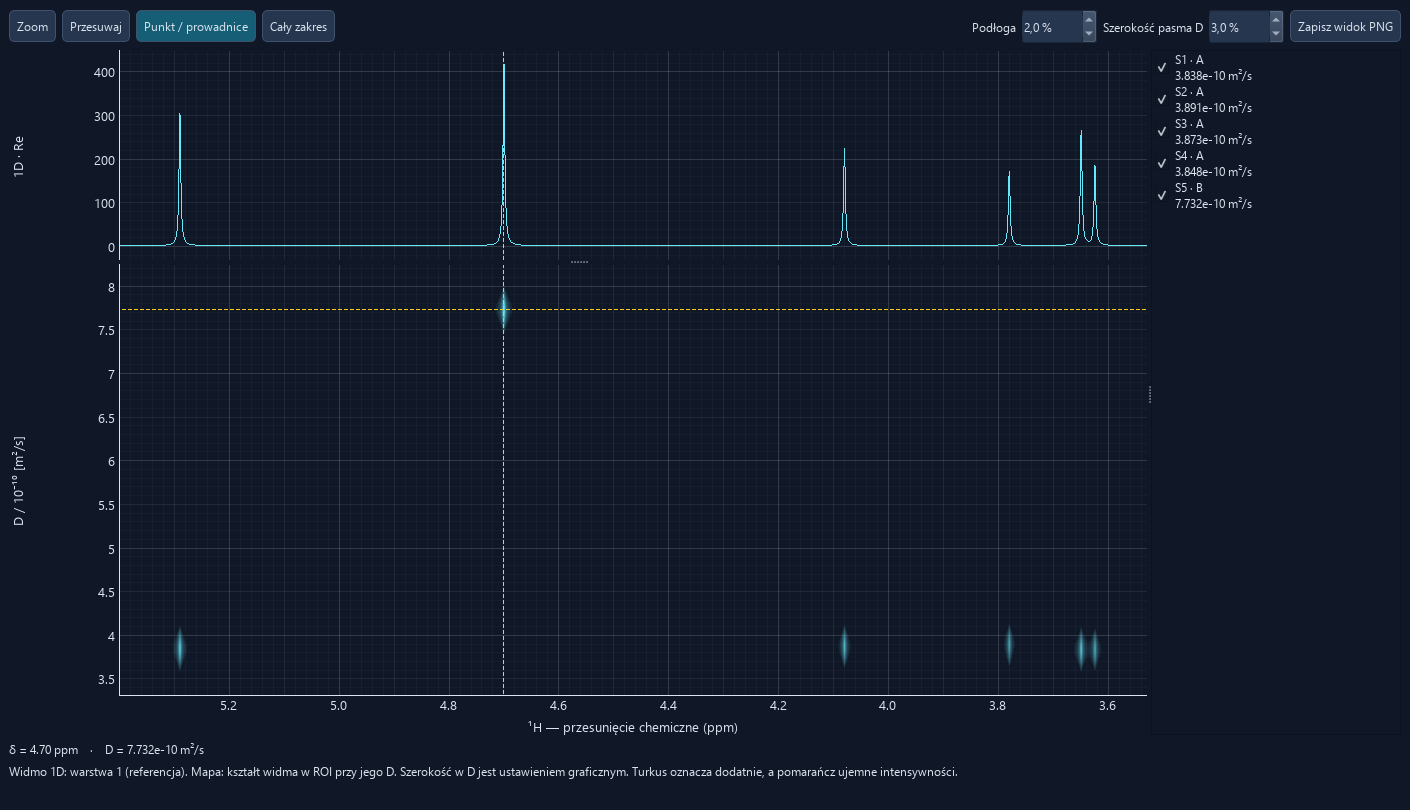
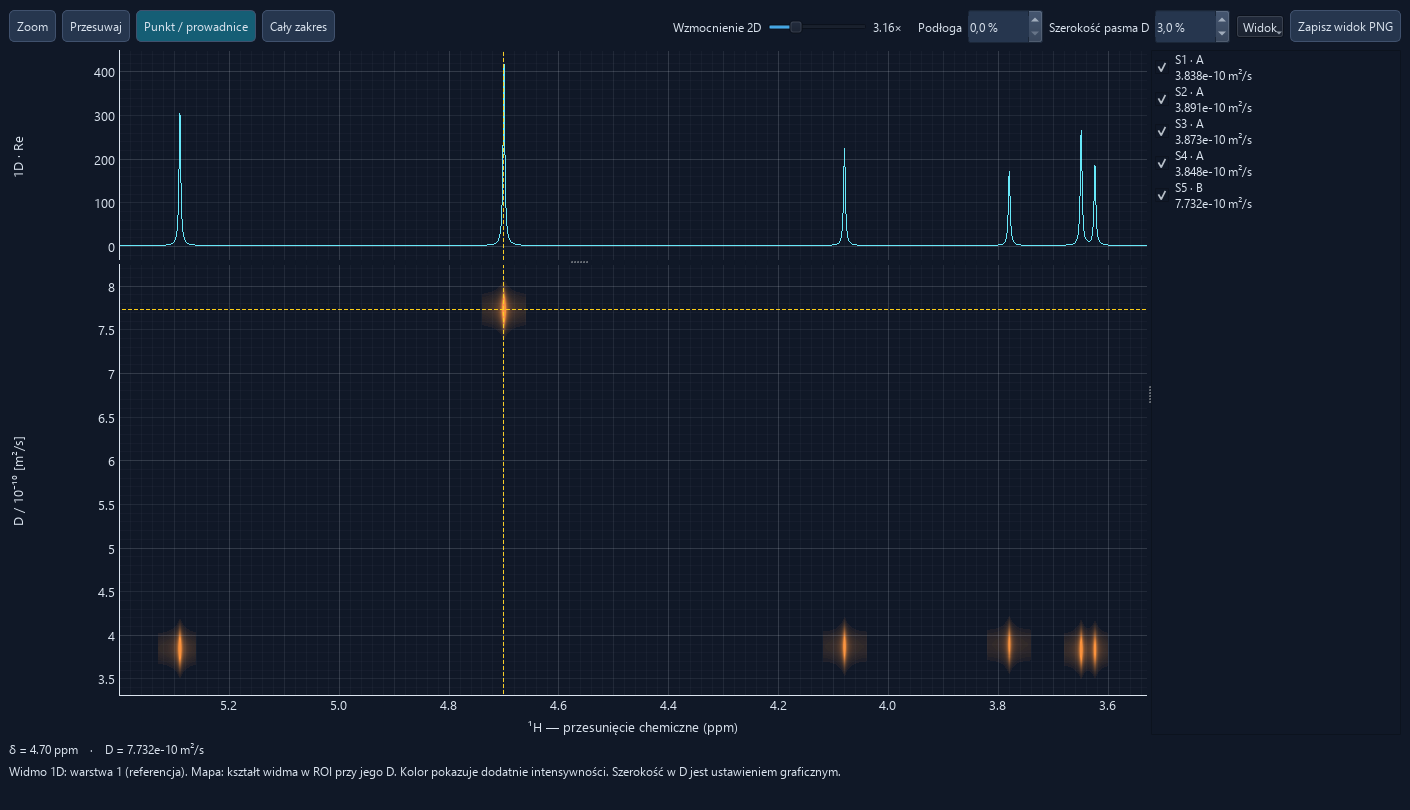
Dodaj wzmocnienie i ustawienia wyglądu mapy DOSY 2D

diff --git a/dosy_map.py b/dosy_map.py
@@ -3,7 +3,7 @@ from dataclasses import dataclass
 
 import numpy as np
 import pyqtgraph as pg
-from PySide6 import QtCore, QtWidgets
+from PySide6 import QtCore, QtGui, QtWidgets
 
 from d_statistics import finite
 from spectrum_view import SpectrumBox
@@ -82,8 +82,11 @@ class DosyMapWindow(QtWidgets.QMainWindow):
         self.excluded = set()
         self.images = []
         self.stale = True
-        self.levels = 0.
+        self.peak_intensity = 0.
         self.full_range = None
+        self.settings = parent.settings
+        self.map_color = self.saved_color('dosy_map/color', '#fb923c')
+        self.trace_color = self.saved_color('dosy_map/trace_color', '#67e8f9')
 
         root = QtWidgets.QWidget()
         self.setCentralWidget(root)
@@ -107,12 +110,33 @@ class DosyMapWindow(QtWidgets.QMainWindow):
         reset.clicked.connect(self.reset_view)
         toolbar.addWidget(reset)
         toolbar.addStretch()
-        self.floor = self.spin_box(toolbar, 'Podłoga', 0, 99, 2,
-                                  'Próg w % maksymalnej bezwzględnej intensywności mapy. Rolka nad mapą zmienia próg.')
-        self.floor.valueChanged.connect(self.update_floor)
+        toolbar.addWidget(QtWidgets.QLabel('Wzmocnienie 2D'))
+        self.gain = QtWidgets.QSlider(QtCore.Qt.Orientation.Horizontal)
+        self.gain.setRange(0, 40)
+        self.gain.setFixedWidth(100)
+        self.gain.setToolTip('Wzmocnij jasność mapy od 1× do 100×. Próg podłogi pozostaje niezależny.')
+        self.gain.valueChanged.connect(self.update_intensity)
+        toolbar.addWidget(self.gain)
+        self.gain_label = QtWidgets.QLabel('1×')
+        self.gain_label.setMinimumWidth(39)
+        toolbar.addWidget(self.gain_label)
+        self.floor = self.spin_box(toolbar, 'Podłoga', 0, 99, 0,
+                                  'Próg w % najsilniejszej dodatniej intensywności przed wzmocnieniem. Rolka zmienia próg.')
+        self.floor.valueChanged.connect(self.update_intensity)
         self.width = self.spin_box(toolbar, 'Szerokość pasma D', .2, 15, 3,
                                   'Szerokość FWHM w % maksymalnego D widocznych ROI. Ustawienie graficzne.')
         self.width.valueChanged.connect(self.render_map)
+        view_button = QtWidgets.QToolButton()
+        view_button.setText('Widok')
+        view_button.setPopupMode(QtWidgets.QToolButton.ToolButtonPopupMode.InstantPopup)
+        appearance_menu = QtWidgets.QMenu(view_button)
+        self.map_color_action = appearance_menu.addAction('Kolor mapy 2D…')
+        self.trace_color_action = appearance_menu.addAction('Kolor widma 1D…')
+        self.grid_action = appearance_menu.addAction('Pokaż siatkę')
+        self.grid_action.setCheckable(True)
+        self.grid_action.setChecked(self.settings.value('dosy_map/grid', True, type=bool))
+        view_button.setMenu(appearance_menu)
+        toolbar.addWidget(view_button)
         self.save_button = QtWidgets.QPushButton('Zapisz widok PNG')
         self.save_button.setEnabled(False)
         self.save_button.clicked.connect(self.choose_save)
@@ -139,7 +163,6 @@ class DosyMapWindow(QtWidgets.QMainWindow):
         for plot in (self.projection, self.plot):
             plot.invertX(True)
             plot.getAxis('left').setWidth(110)
-            plot.showGrid(x=True, y=True, alpha=.17)
             plot.viewport().installEventFilter(self)
         self.map_view.setLimits(yMin=0)
         self.projection.setXLink(self.plot)
@@ -155,7 +178,12 @@ class DosyMapWindow(QtWidgets.QMainWindow):
             plot.addItem(guide, ignoreBounds=True)
             guide.setZValue(10)
             guide.hide()
-        self.trace = self.projection.plot(pen=pg.mkPen('#67e8f9'))
+        self.trace = self.projection.plot(pen=pg.mkPen(self.trace_color))
+        self.map_color_action.triggered.connect(lambda: self.choose_color(map_color=True))
+        self.trace_color_action.triggered.connect(lambda: self.choose_color(map_color=False))
+        self.grid_action.toggled.connect(self.set_grid)
+        self.set_grid(self.grid_action.isChecked())
+        self.update_map_color()
         self.rois = QtWidgets.QListWidget()
         self.rois.setMinimumWidth(195)
         self.rois.setToolTip('Odznacz ROI, aby wyłączyć je tylko z mapy.')
@@ -261,12 +289,12 @@ class DosyMapWindow(QtWidgets.QMainWindow):
         ppm = self.dataset.ppm
         layer = self.dataset.options['reference_layer'] + 1
         bands, overlaps = roi_bands(ppm, self.reference, self.results, self.excluded)
-        bands = [band for band in bands if np.any(band.intensity)]
-        self.levels = max((np.max(np.abs(band.intensity)) for band in bands), default=0.)
+        bands = [band for band in bands if np.any(band.intensity > 0)]
+        self.peak_intensity = max((np.max(band.intensity) for band in bands), default=0.)
         self.save_button.setEnabled(bool(bands) and not self.stale)
         if not bands:
             self.full_range = ((ppm[0], ppm[-1]), (0., 1.))
-            self.note.setText('Brak sygnałów do wyświetlenia. Dodaj całki z dodatnim D lub sprawdź wybór ROI i ich nakładanie.')
+            self.note.setText('Brak dodatnich sygnałów do wyświetlenia. Sprawdź dopasowania D, fazę i wybór ROI.')
             return
         maximum = max(band.diffusion for band in bands) / self.D_SCALE
         fwhm = self.width.value() * maximum / 100
@@ -277,7 +305,8 @@ class DosyMapWindow(QtWidgets.QMainWindow):
         for band in bands:
             center = band.diffusion / self.D_SCALE
             image = pg.ImageItem(axisOrder='row-major')
-            image.setImage((kernel[:, None] * band.intensity).astype(np.float32), levels=(-self.levels, self.levels))
+            image.setImage((kernel[:, None] * band.intensity).astype(np.float32), autoLevels=False)
+            image.setLookupTable(self.lookup_table)
             image.setRect(QtCore.QRectF(band.ppm[0]-ppm_step/2, center+offset[0]-d_step/2,
                                        len(band.ppm)*ppm_step, len(offset)*d_step))
             self.plot.addItem(image)
@@ -293,19 +322,50 @@ class DosyMapWindow(QtWidgets.QMainWindow):
         )
         self.note.setText(
             f'Widmo 1D: warstwa {layer} (referencja). Mapa: kształt widma w ROI przy jego D. '
-            'Szerokość w D jest ustawieniem graficznym. Turkus oznacza dodatnie, a pomarańcz ujemne intensywności.'
+            'Kolor pokazuje dodatnie intensywności. Szerokość w D jest ustawieniem graficznym.'
             + (' Wspólne punkty nakładających się ROI są pominięte.' if overlaps else ''))
-        self.update_floor()
+        self.update_intensity()
 
-    def update_floor(self):
-        values = np.linspace(-1., 1., 257)
-        floor = self.floor.value() / 100
-        intensity = np.clip((np.abs(values)-floor)/(1-floor), 0., 1.)
-        colors = np.empty((len(values), 4), dtype=np.uint8)
-        colors[:, :3] = np.where(values[:, None] >= 0, (103, 232, 249), (251, 146, 60))
-        colors[:, 3] = np.round(255 * np.sqrt(intensity)).astype(np.uint8)
+    def update_intensity(self):
+        gain = 10 ** (self.gain.value() / 20)
+        self.gain_label.setText(f'{gain:.3g}×')
+        threshold = self.peak_intensity * self.floor.value() / 100
+        saturation = threshold + (self.peak_intensity - threshold) / gain
         for image in self.images:
-            image.setLookupTable(colors)
+            image.setLevels((threshold, saturation))
+
+    def saved_color(self, key, default):
+        color = QtGui.QColor(self.settings.value(key, default, type=str))
+        return color if color.isValid() else QtGui.QColor(default)
+
+    def choose_color(self, *, map_color):
+        current = self.map_color if map_color else self.trace_color
+        target = 'mapy 2D' if map_color else 'widma 1D'
+        color = QtWidgets.QColorDialog.getColor(current, self, f'Kolor {target}')
+        if not color.isValid():
+            return
+        if map_color:
+            self.map_color = color
+            self.settings.setValue('dosy_map/color', color.name())
+            self.update_map_color()
+        else:
+            self.trace_color = color
+            self.settings.setValue('dosy_map/trace_color', color.name())
+            self.trace.setPen(pg.mkPen(color))
+
+    def update_map_color(self):
+        # ImageItem clips values below the lower level to the transparent first entry.
+        colors = np.empty((256, 4), dtype=np.uint8)
+        colors[:, :3] = self.map_color.getRgb()[:3]
+        colors[:, 3] = np.round(255 * np.sqrt(np.linspace(0., 1., len(colors)))).astype(np.uint8)
+        self.lookup_table = colors
+        for image in self.images:
+            image.setLookupTable(self.lookup_table)
+
+    def set_grid(self, visible):
+        for plot in (self.projection, self.plot):
+            plot.showGrid(x=visible, y=visible, alpha=.17)
+        self.settings.setValue('dosy_map/grid', visible)
 
     def reset_view(self):
         if self.full_range is None:

diff --git a/test_gui.py b/test_gui.py
@@ -389,6 +389,36 @@ class InterfaceTests(unittest.TestCase):
             height = np.ptp(window.reference_view.viewRange()[1])
             wheel(window.projection)
             self.assertLess(np.ptp(window.reference_view.viewRange()[1]), height)
+            image = window.images[0]
+            peak = window.peak_intensity
+            image.setImage(np.array([[-peak, 0., .02*peak, peak]], dtype=np.float32), autoLevels=False)
+            window.floor.setValue(0)
+            image.render()
+            weak_alpha = image.qimage.pixelColor(2,0).alpha()
+            self.assertEqual(image.qimage.pixelColor(3,0).name(), '#fb923c')
+            window.gain.setValue(20)
+            image.render()
+            self.assertEqual(window.gain_label.text(), '10×')
+            self.assertEqual(image.qimage.pixelColor(0,0).alpha(), 0)
+            self.assertEqual(image.qimage.pixelColor(1,0).alpha(), 0)
+            self.assertGreater(image.qimage.pixelColor(2,0).alpha(), weak_alpha)
+            window.floor.setValue(3)
+            image.render()
+            self.assertEqual(image.qimage.pixelColor(2,0).alpha(), 0)
+            with patch.object(QtWidgets.QColorDialog, 'getColor',
+                              side_effect=[QtGui.QColor('#22c55e'), QtGui.QColor('#a78bfa')]):
+                window.map_color_action.trigger()
+                window.trace_color_action.trigger()
+            image.render()
+            self.assertEqual(image.qimage.pixelColor(3,0).name(), '#22c55e')
+            self.assertEqual(window.trace.opts['pen'].color().name(), '#a78bfa')
+            window.grid_action.trigger()
+            for chart in (window.plot, window.projection):
+                self.assertFalse(chart.getAxis('bottom').grid)
+                self.assertFalse(chart.getAxis('left').grid)
+            self.assertEqual(w.settings.value('dosy_map/color'), '#22c55e')
+            self.assertEqual(w.settings.value('dosy_map/trace_color'), '#a78bfa')
+            self.assertFalse(w.settings.value('dosy_map/grid', type=bool))
             window.rois.item(1).setCheckState(QtCore.Qt.CheckState.Unchecked)
             self.assertEqual(len(window.images), 1)
             with tempfile.TemporaryDirectory() as directory:

diff --git a/docs/INSTRUKCJA.md b/docs/INSTRUKCJA.md
@@ -180,8 +180,9 @@ Pakiet eksportu może zawierać pełne dane pomiarowe i treść osadzonej sekwen
 2. Z prawej strony wybierz, które całki mają się znaleźć na mapie. Dostępne są całki z poprawnie zakończonym dopasowaniem i dodatnim, skończonym **D**. Wybór dotyczy mapy i nie zmienia projektu ani statystyki.
 3. Przeciągnij prostokąt w trybie **Zoom**. Zmiana zakresu ppm na mapie od razu zmienia zakres widma 1D nad nią. **Przesuwaj** włącza przesuwanie, a **Cały zakres** lub dwuklik przywraca widok wszystkich wyświetlanych sygnałów.
 4. Włącz **Punkt / prowadnice** i kliknij mapę. Linie pokazują pozycję ppm oraz współrzędną **D** kursora. Pionowa prowadnica pojawia się też na widmie 1D. Odczyt dotyczy miejsca kliknięcia, bez przyciągania do najbliższego piku.
-5. Rolka nad **1D** zmienia wysokość widma. Rolka nad **2D** zmienia podłogę intensywności. Im wyższa podłoga, tym mniej słabych punktów widać. **Zapisz widok PNG** zachowuje oba aktualne wykresy z zoomem, skalą intensywności i prowadnicami.
+5. Rolka nad **1D** zmienia wysokość widma. Rolka nad **2D** zmienia **Podłogę**, czyli próg widoczności w procentach najsilniejszego sygnału. Aby uwidocznić słabsze sygnały, obniż podłogę i przesuń suwak **Wzmocnienie 2D**. Suwak rozjaśnia punkty powyżej progu, a najsilniejsze mogą osiągnąć maksymalną jasność.
+6. W menu **Widok** możesz osobno ustawić kolor mapy 2D i widma 1D oraz włączyć lub wyłączyć siatkę obu wykresów. **Zapisz widok PNG** zachowuje aktualny wygląd obu wykresów wraz z zoomem i prowadnicami.
 
-Mapa umieszcza rzeczywistą część sfazowanego widma referencyjnego w granicach każdej całki przy współczynniku **D** z jej zapisanego dopasowania. Turkus oznacza dodatnią intensywność, a pomarańcz ujemną. Jeśli wybrane całki się nakładają, ich wspólne punkty są pomijane. Wyłączenie jednej z nich przywraca wspólny fragment w drugiej.
+Mapa umieszcza dodatnią intensywność sfazowanego widma referencyjnego w granicach każdej całki przy współczynniku **D** z jej zapisanego dopasowania. Domyślny kolor to pomarańczowy. Ujemna intensywność widma, np. fragment dyspersyjnej linii, nadal jest widoczna w widmie 1D. Wzmocnienie, podłoga i kolor mapy wpływają wyłącznie na podgląd. Jeśli wybrane całki się nakładają, ich wspólne punkty są pomijane. Wyłączenie jednej z nich przywraca wspólny fragment w drugiej.
 
 **Szerokość pasma D** steruje graficznym rozmyciem w pionie jako FWHM w procentach największego widocznego **D**. Położenie pasma wynika z fitu. Każda całka ma jedno przypisane **D**, więc mapa nie rozdziela związków, których sygnały leżą w tym samym ROI.
